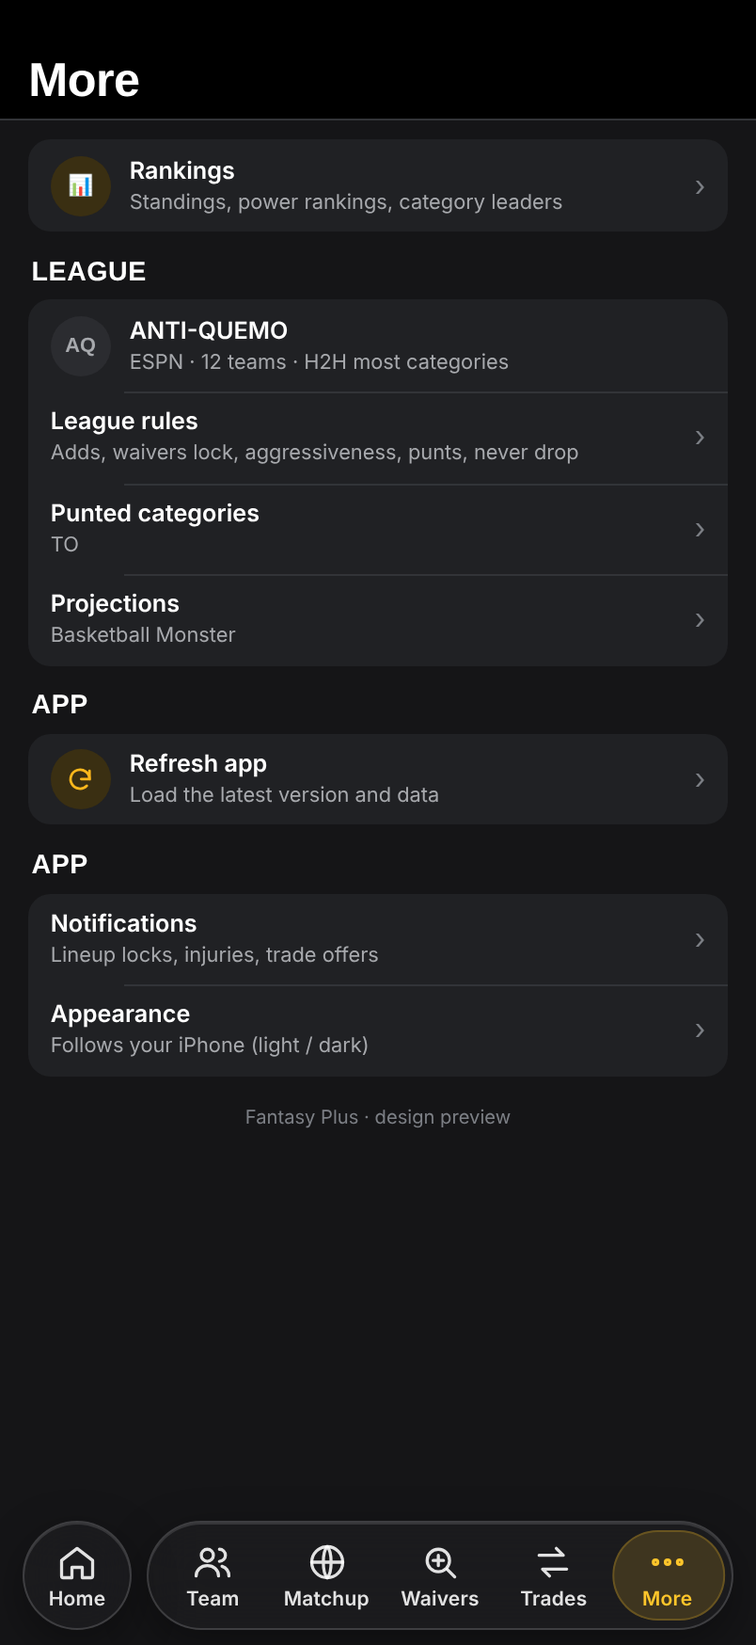
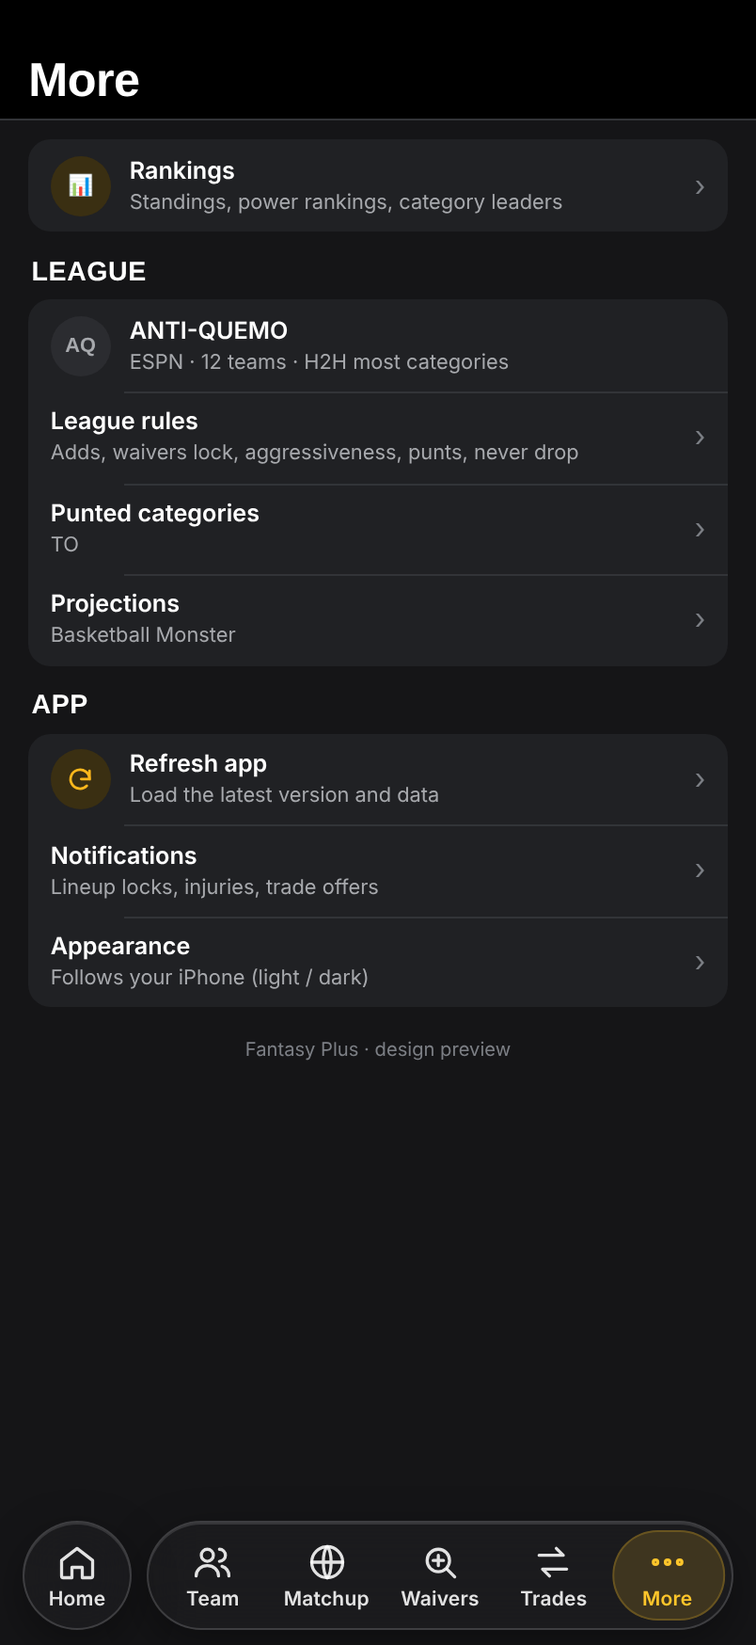
Home header level with other pages; per-page size slider (More > App > Page size)
Claude-Session: https://claude.ai/code/session_01Bze7554zYTgci3mfzKEDgc

Changed region(s): [[0.0622, 0.4943, 0.5597, 0.6487], [0.3731, 0.5252, 0.4042, 0.587]]

diff --git a/classic.html b/classic.html
@@ -1032,6 +1032,21 @@ html body .ghx .gn small{font-size:13px!important}
 .lvgh span{font:700 10.5px "Roboto Condensed",sans-serif;color:#8e9096;text-align:center;letter-spacing:.03em}
 .lvgh span.nd{color:#ffc62b}
 .fpspin{animation:ahspin .7s linear infinite}
+html body .ah>.hdstk .ahtop{padding-top:10px!important}
+html body .ahtop .ahday{font-size:30px!important}
+#fpzt{position:fixed;left:12px;right:12px;bottom:calc(env(safe-area-inset-bottom,0px) + 96px);z-index:60;background:rgba(24,24,28,.92);-webkit-backdrop-filter:blur(14px);backdrop-filter:blur(14px);border:1px solid rgba(255,255,255,.12);border-radius:18px;padding:10px 14px 12px;color:#fff;font:600 14px -apple-system,system-ui,sans-serif;box-shadow:0 10px 30px rgba(0,0,0,.45)}
+#fpzt[hidden]{display:none!important}
+#fpzt .r1{display:flex;align-items:center;justify-content:space-between;margin-bottom:8px}
+#fpzt .r1 b{font:800 15px "Roboto Condensed",sans-serif;letter-spacing:.02em;white-space:nowrap}
+#fpzt .r1 b i{font-style:normal;color:#ffc62b;margin-left:6px}
+#fpzt .r1 span{display:flex;gap:6px}
+#fpzt button{border:1px solid #3a3b40;background:#26262a;color:#fff;border-radius:10px;font:700 13px system-ui;padding:6px 10px;cursor:pointer}
+#fpzt button.dn{background:#ffc62b;color:#111;border-color:#ffc62b}
+#fpzt .r2{display:flex;align-items:center;gap:10px}
+#fpzt .r2 button{width:36px;height:36px;padding:0;font-size:20px;line-height:1}
+#fpzt input{flex:1;accent-color:#ffc62b;height:28px}
+#fpzt .all{margin-top:8px;font:500 11.5px system-ui;color:#8e9096}
+.fpzsw{width:46px;height:28px;border-radius:14px;background:#3a3b40;position:relative;flex:none}.fpzsw::after{content:"";position:absolute;top:2px;left:2px;width:24px;height:24px;border-radius:50%;background:#fff;transition:.2s}.fpzsw.on{background:#3fcf6c}.fpzsw.on::after{left:20px}
 </style>
 <div class="stage">
  <aside class="side"><h1>Fantasy Plus <span>for iPhone</span></h1><p>Design of the iPhone app. Tap around, it all works: the tabs, the players, the trade builder.</p><ul><li><b>Home</b>: score, last night, this week's review, category ranks, waivers. Tap the score for the full game.</li><li><b>Team</b>: roster and player cards</li><li><b>Matchup</b>: ESPN-style category table with our ball logic</li><li><b>More</b>: rankings and settings</li><li><b>Trades</b>: your market and the builder</li></ul><p>Numbers are a snapshot of your Anti-Quemo league (preseason projections). Photos show as initials here; the app uses real headshots.</p><p>On your phone, open this link directly and it fills the screen.</p></aside>
@@ -1382,7 +1397,7 @@ S.builder=()=>{if(BS.pid==null){const f=finder()[0];BS.pid=f.pid;BS.out=[...f.ou
 S.finder=()=>`<div class="lt" style="margin-top:2px">Win-win finder</div><div class="eb" style="margin:6px 4px 10px">Trades where you climb and they don't drop</div><div class="list">${finder().slice(0,12).map((e,i)=>`<button class="cell" data-deal="${i}" style="align-items:flex-start"><div class="m"><b>${esc(e.out.map(sh).join(" + "))} ⇄ ${esc(e.inn.map(sh).join(" + "))}</b><small>${esc(TN[e.pid])} · ${e.acc}% accept · them ${e.them.d>=0?"+":""}${e.them.d}</small></div><div class="r"><b style="font:900 18px var(--f-disp);color:var(--win)">+${e.me.d}</b></div><span class="chev">›</span></button>`).join("")}</div>`;
 S.rules=()=>`<div class="inmore">${whSettings()}</div>`;
 S.more=()=>`<div class="lt" style="margin-top:8px">More</div><div class="list" style="margin-top:12px"><button class="cell" data-push="rankings"><div class="av" style="background:var(--acc-soft);color:var(--acc)">📊</div><div class="m"><b>Rankings</b><small>Standings, power rankings, category leaders</small></div><span class="chev">›</span></button></div><div class="sec"><h2>League</h2></div><div class="list"><div class="cell" style="cursor:default"><div class="av">AQ</div><div class="m"><b>${esc(D.league)}</b><small>ESPN · 12 teams · H2H most categories</small></div></div><button class="cell" data-push="rules"><div class="m"><b>League rules</b><small>Adds, waivers lock, aggressiveness, punts, never drop</small></div><span class="chev">›</span></button><div class="cell" style="cursor:default"><div class="m"><b>Punted categories</b><small>${D.punts.join(", ")||"none"}</small></div><span class="chev">›</span></div><div class="cell" style="cursor:default"><div class="m"><b>Projections</b><small>Basketball Monster</small></div><span class="chev">›</span></div></div>
- <div class="sec"><h2>App</h2></div><div class="list"><button class="cell" onclick="this.querySelector('svg').classList.add('fpspin');location.replace(location.pathname+'?v='+Date.now()+location.hash)"><div class="av" style="background:var(--acc-soft);color:var(--acc)"><svg viewBox="0 0 24 24" width="18" height="18" fill="none" stroke="currentColor" stroke-width="2.2" stroke-linecap="round"><path d="M20 11a8 8 0 1 0-2.3 5.7"/><path d="M20 4v7h-7"/></svg></div><div class="m"><b>Refresh app</b><small>Load the latest version and data</small></div><span class="chev">›</span></button><div class="cell" style="cursor:default"><div class="m"><b>Notifications</b><small>Lineup locks, injuries, trade offers</small></div><span class="chev">›</span></div><div class="cell" style="cursor:default"><div class="m"><b>Appearance</b><small>Follows your iPhone (light / dark)</small></div><span class="chev">›</span></div></div><p style="color:var(--mute);font-size:12px;text-align:center;margin-top:20px">Fantasy Plus · design preview</p>`;
+ <div class="sec"><h2>App</h2></div><div class="list"><button class="cell" onclick="this.querySelector('svg').classList.add('fpspin');location.replace(location.pathname+'?v='+Date.now()+location.hash)"><div class="av" style="background:var(--acc-soft);color:var(--acc)"><svg viewBox="0 0 24 24" width="18" height="18" fill="none" stroke="currentColor" stroke-width="2.2" stroke-linecap="round"><path d="M20 11a8 8 0 1 0-2.3 5.7"/><path d="M20 4v7h-7"/></svg></div><div class="m"><b>Refresh app</b><small>Load the latest version and data</small></div><span class="chev">›</span></button><button class="cell" onclick="window.FPZ&&FPZ.toggle(this)"><div class="av" style="background:var(--acc-soft);color:var(--acc);font:800 15px system-ui">Aa</div><div class="m"><b>Page size</b><small>Show a size slider on every page</small></div><span class="fpzsw ${(()=>{try{return localStorage.getItem('fp_tune')==='1'?'on':''}catch(e){return ''}})()}"></span></button><div class="cell" style="cursor:default"><div class="m"><b>Notifications</b><small>Lineup locks, injuries, trade offers</small></div><span class="chev">›</span></div><div class="cell" style="cursor:default"><div class="m"><b>Appearance</b><small>Follows your iPhone (light / dark)</small></div><span class="chev">›</span></div></div><p style="color:var(--mute);font-size:12px;text-align:center;margin-top:20px">Fantasy Plus · design preview</p>`;
 /* ---------- shell ---------- */
 const STACK={home:["home"],team:["team"],matchup:["game"],waivers:["waivers"],trades:["trades"],more:["more"]};let TAB="home";
 const TITLES={rules:"League rules",builder:"Trade builder",finder:"Win-win finder",game:"Matchup",rankings:"Rankings"};
@@ -2248,7 +2263,7 @@ function wvSheet(el){const X=window.HDX;document.querySelectorAll(".mvov,.mvsh")
  sh.querySelectorAll("[data-lay]").forEach(b=>b.onclick=()=>{const want=b.dataset.lay;if((X.WH.seg==="all")!==(want==="all")){const t=document.querySelector("#views .view [data-whseg]");if(t)t.click()}setTimeout(()=>{wvSheet();document.querySelector(".mvsh").style.animation="none"},60)});
  sh.querySelector("[data-col]").onclick=()=>{localStorage.setItem("hd_wvcol",col?"0":"1");document.querySelectorAll("#views .view").forEach(v=>v.classList.toggle("wvnc",col));wvSheet();document.querySelector(".mvsh").style.animation="none"}}
 function goldGrid(el){el.querySelectorAll('.whc').forEach(w=>{const R=[...w.querySelectorAll(':scope > .lvg')];if(!R.length)return;const hot=new Set([...el.querySelectorAll('.ahl,.whsec')].length?[]:[]);const cats=[...R[0].querySelectorAll('.gsq span')].map(x=>x.dataset.c);cats.forEach((c,j)=>{const cells=R.map(r=>r.querySelectorAll('.gsq span')[j]).filter(Boolean);const key=x=>x.textContent.trim()==='–'?-1e9:+x.dataset.z;const vals=[...new Set(cells.map(x=>x.textContent.trim()==='–'?null:x.dataset.v).filter(v=>v!=null))];const zv={};cells.forEach(x=>{if(x.textContent.trim()!=='–')zv[x.dataset.v]=Math.max(zv[x.dataset.v]??-1e9,+x.dataset.z)});vals.sort((a,b)=>zv[b]-zv[a]);cells.forEach(x=>{x.classList.remove('g1','g2','g0','b1','b2');const t=x.textContent.trim();if(t==='–'){x.classList.add('g0');return}const r=vals.indexOf(x.dataset.v),L=vals.length;if(L<2)return;if(r===0)x.classList.add('g1');else if(r===1&&L>=4)x.classList.add('g2');else if(r===L-1)x.classList.add('b1');else if(r===L-2&&L>=4)x.classList.add('b2')})});if(!w.querySelector(':scope > .lvgh')){const h=document.createElement('div');h.className='lvgh';h.style.setProperty('--n',cats.length);h.innerHTML='<span></span><div>'+cats.map(c=>'<span>'+c+'</span>').join('')+'</div>';w.insertBefore(h,R[0])}})}
-function after(el,cur){const X=window.HDX;if(!X)return;
+function after(el,cur){const X=window.HDX;if(!X)return;try{window.FPZ&&FPZ.apply(el)}catch(e){}
  if(X.TAB==='waivers'){try{const w=el.querySelector('#wmini');if(w&&window.__wmBind)window.__wmBind(w)}catch(e){}}
  if(X.TAB==='waivers'){try{goldGrid(el)}catch(e){console.warn(e)}}
  if(X.TAB==='waivers'){try{el.classList.toggle('wvnc',localStorage.getItem('hd_wvcol')==='0')}catch(e){}const g=el.querySelector('.whgear');if(g){const n=g.cloneNode(true);n.classList.remove('on');n.removeAttribute('data-whro');n.setAttribute('aria-label','Waivers view');n.onclick=e=>{e.stopPropagation();wvSheet(el)};g.replaceWith(n)}}
@@ -2277,6 +2292,28 @@ function stick(el){if(!el||el.querySelector(".hdstk"))return;let nodes=[];const 
 return{after:(el,cur)=>{after(el,cur);try{stick(el)}catch(e){}}}})();
 
 ;(function fpTabFix(){function fix(){try{var p=document.querySelector(".pp");if(!(p&&p.classList.contains("open")))document.body.classList.remove("pp-on");if(window.HDNAV&&window.HDX)HDNAV(HDX.TAB);var t=document.getElementById("tabs");if(t&&!t.classList.contains("nav2")&&window.HDNAV&&window.HDX)HDNAV(HDX.TAB)}catch(e){}}[300,1000,2500,5000].forEach(function(x){setTimeout(fix,x)});addEventListener("pageshow",fix);document.addEventListener("visibilitychange",function(){if(!document.hidden)setTimeout(fix,100)})})();
+
+window.FPZ=(function(){const BASE=.84,NAME={home:"Home",team:"Team",matchup:"Matchup",waivers:"Waivers",trades:"Trades",more:"More"};
+let Z={};try{Z=JSON.parse(localStorage.getItem("fp_zoom")||"{}")}catch(e){}
+const tune=()=>{try{return localStorage.getItem("fp_tune")==="1"}catch(e){return false}};
+const tab=()=>(window.HDX&&HDX.TAB)||"home",cur=()=>Z[tab()]||1;
+const view=()=>[...document.querySelectorAll("#views .view")].pop();
+function apply(el){el=el||view();if(!el)return;const z=cur();el.style.zoom=z===1?"":(BASE*z).toFixed(3);ui()}
+let bar=null;
+function ui(){if(!tune()){if(bar)bar.hidden=true;return}
+ if(!bar){bar=document.createElement("div");bar.id="fpzt";document.body.appendChild(bar);
+  bar.innerHTML='<div class="r1"><b><span class="nm"></span><i class="pc"></i></b><span><button class="rs">Reset</button><button class="dn">Done</button></span></div><div class="r2"><button class="mi" aria-label="Smaller">−</button><input type="range" min="70" max="140" step="2" aria-label="Page size"><button class="pl" aria-label="Bigger">+</button></div><div class="all"></div>';
+  const inp=bar.querySelector("input");
+  const set=v=>{v=Math.max(70,Math.min(140,v));Z[tab()]=v/100;try{localStorage.setItem("fp_zoom",JSON.stringify(Z))}catch(e){}apply()};
+  inp.addEventListener("input",()=>set(+inp.value));
+  bar.querySelector(".mi").onclick=()=>set(Math.round(cur()*100)-2);bar.querySelector(".pl").onclick=()=>set(Math.round(cur()*100)+2);
+  bar.querySelector(".rs").onclick=()=>set(100);
+  bar.querySelector(".dn").onclick=()=>{try{localStorage.setItem("fp_tune","0")}catch(e){}bar.hidden=true;const sw=document.querySelector(".fpzsw");if(sw)sw.classList.remove("on")}}
+ bar.hidden=false;const p=Math.round(cur()*100);bar.querySelector(".nm").textContent=(NAME[tab()]||tab())+" size";bar.querySelector(".pc").textContent=p+"%";bar.querySelector("input").value=p;
+ bar.querySelector(".all").textContent="Saved per page · "+Object.keys(NAME).map(k=>NAME[k]+" "+Math.round((Z[k]||1)*100)+"%").join(" · ")}
+function toggle(btn){const on=!tune();try{localStorage.setItem("fp_tune",on?"1":"0")}catch(e){}const sw=btn&&btn.querySelector(".fpzsw");if(sw)sw.classList.toggle("on",on);ui()}
+setTimeout(()=>apply(),400);
+return{apply,toggle,ui}})();
 </script><style>#views .whpick .lbl{flex-wrap:nowrap!important;gap:5px!important;padding-right:10px!important;margin-bottom:8px!important;white-space:nowrap}
 #views .whpick .lbl .lbt{font-size:9px!important;letter-spacing:.02em!important}
 #views .whpick .lbl .pgr i{width:4px!important}#views .whpick .lbl .pgr i.on{width:10px!important}

diff --git a/index.html b/index.html
@@ -1084,6 +1084,21 @@ html body .ghx .gn small{font-size:13px!important}
 .lvgh span{font:700 10.5px "Roboto Condensed",sans-serif;color:#8e9096;text-align:center;letter-spacing:.03em}
 .lvgh span.nd{color:#ffc62b}
 .fpspin{animation:ahspin .7s linear infinite}
+html body .ah>.hdstk .ahtop{padding-top:10px!important}
+html body .ahtop .ahday{font-size:30px!important}
+#fpzt{position:fixed;left:12px;right:12px;bottom:calc(env(safe-area-inset-bottom,0px) + 96px);z-index:60;background:rgba(24,24,28,.92);-webkit-backdrop-filter:blur(14px);backdrop-filter:blur(14px);border:1px solid rgba(255,255,255,.12);border-radius:18px;padding:10px 14px 12px;color:#fff;font:600 14px -apple-system,system-ui,sans-serif;box-shadow:0 10px 30px rgba(0,0,0,.45)}
+#fpzt[hidden]{display:none!important}
+#fpzt .r1{display:flex;align-items:center;justify-content:space-between;margin-bottom:8px}
+#fpzt .r1 b{font:800 15px "Roboto Condensed",sans-serif;letter-spacing:.02em;white-space:nowrap}
+#fpzt .r1 b i{font-style:normal;color:#ffc62b;margin-left:6px}
+#fpzt .r1 span{display:flex;gap:6px}
+#fpzt button{border:1px solid #3a3b40;background:#26262a;color:#fff;border-radius:10px;font:700 13px system-ui;padding:6px 10px;cursor:pointer}
+#fpzt button.dn{background:#ffc62b;color:#111;border-color:#ffc62b}
+#fpzt .r2{display:flex;align-items:center;gap:10px}
+#fpzt .r2 button{width:36px;height:36px;padding:0;font-size:20px;line-height:1}
+#fpzt input{flex:1;accent-color:#ffc62b;height:28px}
+#fpzt .all{margin-top:8px;font:500 11.5px system-ui;color:#8e9096}
+.fpzsw{width:46px;height:28px;border-radius:14px;background:#3a3b40;position:relative;flex:none}.fpzsw::after{content:"";position:absolute;top:2px;left:2px;width:24px;height:24px;border-radius:50%;background:#fff;transition:.2s}.fpzsw.on{background:#3fcf6c}.fpzsw.on::after{left:20px}
 </style>
 <div class="stage">
  <aside class="side"><h1>Fantasy Plus <span>for iPhone</span></h1><p>Design of the iPhone app. Tap around, it all works: the tabs, the players, the trade builder.</p><ul><li><b>Home</b>: score, last night, this week's review, category ranks, waivers. Tap the score for the full game.</li><li><b>Team</b>: roster and player cards</li><li><b>Matchup</b>: ESPN-style category table with our ball logic</li><li><b>More</b>: rankings and settings</li><li><b>Trades</b>: your market and the builder</li></ul><p>Numbers are a snapshot of your Anti-Quemo league (preseason projections). Photos show as initials here; the app uses real headshots.</p><p>On your phone, open this link directly and it fills the screen.</p></aside>
@@ -1434,7 +1449,7 @@ S.builder=()=>{if(BS.pid==null){const f=finder()[0];BS.pid=f.pid;BS.out=[...f.ou
 S.finder=()=>`<div class="lt" style="margin-top:2px">Win-win finder</div><div class="eb" style="margin:6px 4px 10px">Trades where you climb and they don't drop</div><div class="list">${finder().slice(0,12).map((e,i)=>`<button class="cell" data-deal="${i}" style="align-items:flex-start"><div class="m"><b>${esc(e.out.map(sh).join(" + "))} ⇄ ${esc(e.inn.map(sh).join(" + "))}</b><small>${esc(TN[e.pid])} · ${e.acc}% accept · them ${e.them.d>=0?"+":""}${e.them.d}</small></div><div class="r"><b style="font:900 18px var(--f-disp);color:var(--win)">+${e.me.d}</b></div><span class="chev">›</span></button>`).join("")}</div>`;
 S.rules=()=>`<div class="inmore">${whSettings()}</div>`;
 S.more=()=>`<div class="lt" style="margin-top:8px">More</div><div class="list" style="margin-top:12px"><button class="cell" data-push="rankings"><div class="av" style="background:var(--acc-soft);color:var(--acc)">📊</div><div class="m"><b>Rankings</b><small>Standings, power rankings, category leaders</small></div><span class="chev">›</span></button></div><div class="sec"><h2>League</h2></div><div class="list"><div class="cell" style="cursor:default"><div class="av">AQ</div><div class="m"><b>${esc(D.league)}</b><small>ESPN · 12 teams · H2H most categories</small></div></div><button class="cell" data-push="rules"><div class="m"><b>League rules</b><small>Adds, waivers lock, aggressiveness, punts, never drop</small></div><span class="chev">›</span></button><div class="cell" style="cursor:default"><div class="m"><b>Punted categories</b><small>${D.punts.join(", ")||"none"}</small></div><span class="chev">›</span></div><div class="cell" style="cursor:default"><div class="m"><b>Projections</b><small>Basketball Monster</small></div><span class="chev">›</span></div></div>
- <div class="sec"><h2>App</h2></div><div class="list"><button class="cell" onclick="this.querySelector('svg').classList.add('fpspin');location.replace(location.pathname+'?v='+Date.now()+location.hash)"><div class="av" style="background:var(--acc-soft);color:var(--acc)"><svg viewBox="0 0 24 24" width="18" height="18" fill="none" stroke="currentColor" stroke-width="2.2" stroke-linecap="round"><path d="M20 11a8 8 0 1 0-2.3 5.7"/><path d="M20 4v7h-7"/></svg></div><div class="m"><b>Refresh app</b><small>Load the latest version and data</small></div><span class="chev">›</span></button><div class="cell" style="cursor:default"><div class="m"><b>Notifications</b><small>Lineup locks, injuries, trade offers</small></div><span class="chev">›</span></div><div class="cell" style="cursor:default"><div class="m"><b>Appearance</b><small>Follows your iPhone (light / dark)</small></div><span class="chev">›</span></div></div><p style="color:var(--mute);font-size:12px;text-align:center;margin-top:20px">Fantasy Plus · design preview</p>`;
+ <div class="sec"><h2>App</h2></div><div class="list"><button class="cell" onclick="this.querySelector('svg').classList.add('fpspin');location.replace(location.pathname+'?v='+Date.now()+location.hash)"><div class="av" style="background:var(--acc-soft);color:var(--acc)"><svg viewBox="0 0 24 24" width="18" height="18" fill="none" stroke="currentColor" stroke-width="2.2" stroke-linecap="round"><path d="M20 11a8 8 0 1 0-2.3 5.7"/><path d="M20 4v7h-7"/></svg></div><div class="m"><b>Refresh app</b><small>Load the latest version and data</small></div><span class="chev">›</span></button><button class="cell" onclick="window.FPZ&&FPZ.toggle(this)"><div class="av" style="background:var(--acc-soft);color:var(--acc);font:800 15px system-ui">Aa</div><div class="m"><b>Page size</b><small>Show a size slider on every page</small></div><span class="fpzsw ${(()=>{try{return localStorage.getItem('fp_tune')==='1'?'on':''}catch(e){return ''}})()}"></span></button><div class="cell" style="cursor:default"><div class="m"><b>Notifications</b><small>Lineup locks, injuries, trade offers</small></div><span class="chev">›</span></div><div class="cell" style="cursor:default"><div class="m"><b>Appearance</b><small>Follows your iPhone (light / dark)</small></div><span class="chev">›</span></div></div><p style="color:var(--mute);font-size:12px;text-align:center;margin-top:20px">Fantasy Plus · design preview</p>`;
 /* ---------- shell ---------- */
 const STACK={home:["home"],team:["team"],matchup:["game"],waivers:["waivers"],trades:["trades"],more:["more"]};let TAB="home";
 const TITLES={rules:"League rules",builder:"Trade builder",finder:"Win-win finder",game:"Matchup",rankings:"Rankings"};
@@ -2300,7 +2315,7 @@ function wvSheet(el){const X=window.HDX;document.querySelectorAll(".mvov,.mvsh")
  sh.querySelectorAll("[data-lay]").forEach(b=>b.onclick=()=>{const want=b.dataset.lay;if((X.WH.seg==="all")!==(want==="all")){const t=document.querySelector("#views .view [data-whseg]");if(t)t.click()}setTimeout(()=>{wvSheet();document.querySelector(".mvsh").style.animation="none"},60)});
  sh.querySelector("[data-col]").onclick=()=>{localStorage.setItem("hd_wvcol",col?"0":"1");document.querySelectorAll("#views .view").forEach(v=>v.classList.toggle("wvnc",col));wvSheet();document.querySelector(".mvsh").style.animation="none"}}
 function goldGrid(el){el.querySelectorAll('.whc').forEach(w=>{const R=[...w.querySelectorAll(':scope > .lvg')];if(!R.length)return;const hot=new Set([...el.querySelectorAll('.ahl,.whsec')].length?[]:[]);const cats=[...R[0].querySelectorAll('.gsq span')].map(x=>x.dataset.c);cats.forEach((c,j)=>{const cells=R.map(r=>r.querySelectorAll('.gsq span')[j]).filter(Boolean);const key=x=>x.textContent.trim()==='–'?-1e9:+x.dataset.z;const vals=[...new Set(cells.map(x=>x.textContent.trim()==='–'?null:x.dataset.v).filter(v=>v!=null))];const zv={};cells.forEach(x=>{if(x.textContent.trim()!=='–')zv[x.dataset.v]=Math.max(zv[x.dataset.v]??-1e9,+x.dataset.z)});vals.sort((a,b)=>zv[b]-zv[a]);cells.forEach(x=>{x.classList.remove('g1','g2','g0','b1','b2');const t=x.textContent.trim();if(t==='–'){x.classList.add('g0');return}const r=vals.indexOf(x.dataset.v),L=vals.length;if(L<2)return;if(r===0)x.classList.add('g1');else if(r===1&&L>=4)x.classList.add('g2');else if(r===L-1)x.classList.add('b1');else if(r===L-2&&L>=4)x.classList.add('b2')})});if(!w.querySelector(':scope > .lvgh')){const h=document.createElement('div');h.className='lvgh';h.style.setProperty('--n',cats.length);h.innerHTML='<span></span><div>'+cats.map(c=>'<span>'+c+'</span>').join('')+'</div>';w.insertBefore(h,R[0])}})}
-function after(el,cur){const X=window.HDX;if(!X)return;
+function after(el,cur){const X=window.HDX;if(!X)return;try{window.FPZ&&FPZ.apply(el)}catch(e){}
  if(X.TAB==='waivers'){try{const w=el.querySelector('#wmini');if(w&&window.__wmBind)window.__wmBind(w)}catch(e){}}
  if(X.TAB==='waivers'){try{goldGrid(el)}catch(e){console.warn(e)}}
  if(X.TAB==='waivers'){try{el.classList.toggle('wvnc',localStorage.getItem('hd_wvcol')==='0')}catch(e){}const g=el.querySelector('.whgear');if(g){const n=g.cloneNode(true);n.classList.remove('on');n.removeAttribute('data-whro');n.setAttribute('aria-label','Waivers view');n.onclick=e=>{e.stopPropagation();wvSheet(el)};g.replaceWith(n)}}
@@ -2329,6 +2344,28 @@ function stick(el){if(!el||el.querySelector(".hdstk"))return;let nodes=[];const 
 return{after:(el,cur)=>{after(el,cur);try{stick(el)}catch(e){}}}})();
 
 ;(function fpTabFix(){function fix(){try{var p=document.querySelector(".pp");if(!(p&&p.classList.contains("open")))document.body.classList.remove("pp-on");if(window.HDNAV&&window.HDX)HDNAV(HDX.TAB);var t=document.getElementById("tabs");if(t&&!t.classList.contains("nav2")&&window.HDNAV&&window.HDX)HDNAV(HDX.TAB)}catch(e){}}[300,1000,2500,5000].forEach(function(x){setTimeout(fix,x)});addEventListener("pageshow",fix);document.addEventListener("visibilitychange",function(){if(!document.hidden)setTimeout(fix,100)})})();
+
+window.FPZ=(function(){const BASE=.84,NAME={home:"Home",team:"Team",matchup:"Matchup",waivers:"Waivers",trades:"Trades",more:"More"};
+let Z={};try{Z=JSON.parse(localStorage.getItem("fp_zoom")||"{}")}catch(e){}
+const tune=()=>{try{return localStorage.getItem("fp_tune")==="1"}catch(e){return false}};
+const tab=()=>(window.HDX&&HDX.TAB)||"home",cur=()=>Z[tab()]||1;
+const view=()=>[...document.querySelectorAll("#views .view")].pop();
+function apply(el){el=el||view();if(!el)return;const z=cur();el.style.zoom=z===1?"":(BASE*z).toFixed(3);ui()}
+let bar=null;
+function ui(){if(!tune()){if(bar)bar.hidden=true;return}
+ if(!bar){bar=document.createElement("div");bar.id="fpzt";document.body.appendChild(bar);
+  bar.innerHTML='<div class="r1"><b><span class="nm"></span><i class="pc"></i></b><span><button class="rs">Reset</button><button class="dn">Done</button></span></div><div class="r2"><button class="mi" aria-label="Smaller">−</button><input type="range" min="70" max="140" step="2" aria-label="Page size"><button class="pl" aria-label="Bigger">+</button></div><div class="all"></div>';
+  const inp=bar.querySelector("input");
+  const set=v=>{v=Math.max(70,Math.min(140,v));Z[tab()]=v/100;try{localStorage.setItem("fp_zoom",JSON.stringify(Z))}catch(e){}apply()};
+  inp.addEventListener("input",()=>set(+inp.value));
+  bar.querySelector(".mi").onclick=()=>set(Math.round(cur()*100)-2);bar.querySelector(".pl").onclick=()=>set(Math.round(cur()*100)+2);
+  bar.querySelector(".rs").onclick=()=>set(100);
+  bar.querySelector(".dn").onclick=()=>{try{localStorage.setItem("fp_tune","0")}catch(e){}bar.hidden=true;const sw=document.querySelector(".fpzsw");if(sw)sw.classList.remove("on")}}
+ bar.hidden=false;const p=Math.round(cur()*100);bar.querySelector(".nm").textContent=(NAME[tab()]||tab())+" size";bar.querySelector(".pc").textContent=p+"%";bar.querySelector("input").value=p;
+ bar.querySelector(".all").textContent="Saved per page · "+Object.keys(NAME).map(k=>NAME[k]+" "+Math.round((Z[k]||1)*100)+"%").join(" · ")}
+function toggle(btn){const on=!tune();try{localStorage.setItem("fp_tune",on?"1":"0")}catch(e){}const sw=btn&&btn.querySelector(".fpzsw");if(sw)sw.classList.toggle("on",on);ui()}
+setTimeout(()=>apply(),400);
+return{apply,toggle,ui}})();
 </script><style>#views .whpick .lbl{flex-wrap:nowrap!important;gap:5px!important;padding-right:10px!important;margin-bottom:8px!important;white-space:nowrap}
 #views .whpick .lbl .lbt{font-size:9px!important;letter-spacing:.02em!important}
 #views .whpick .lbl .pgr i{width:4px!important}#views .whpick .lbl .pgr i.on{width:10px!important}
